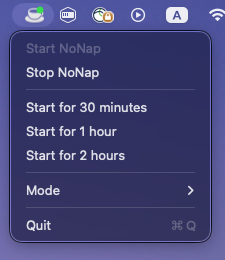
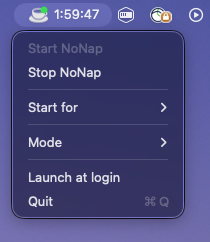
Update screenshot to v1.1 menu (Start for, Launch at login)

diff --git a/README.md b/README.md
@@ -9,7 +9,7 @@ sessions, and local AI jobs.
 **[→ nonap website](https://barvhaim.github.io/nonap/)** · **[Download](https://github.com/barvhaim/nonap/releases)**
 
 <p align="center">
-  <img src="docs/screenshot.png" alt="NoNap menu" width="225">
+  <img src="docs/screenshot.png" alt="NoNap menu" width="210">
 </p>
 
 - ☕ Lives in the menu bar — green dot when awake, faint ring when off
